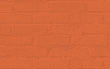
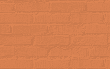
background updates

diff --git a/site/css/myStyles.css b/site/css/myStyles.css
@@ -31,7 +31,7 @@ body {
 	margin: 0;
 	padding: 0;
 	height: 100%;
-	background-image: url(../media/brickwall_rust2.png);
+	background-image: url(../media/cork_wallet_tan.png);
 	background-repeat: repeat;
 }
 
